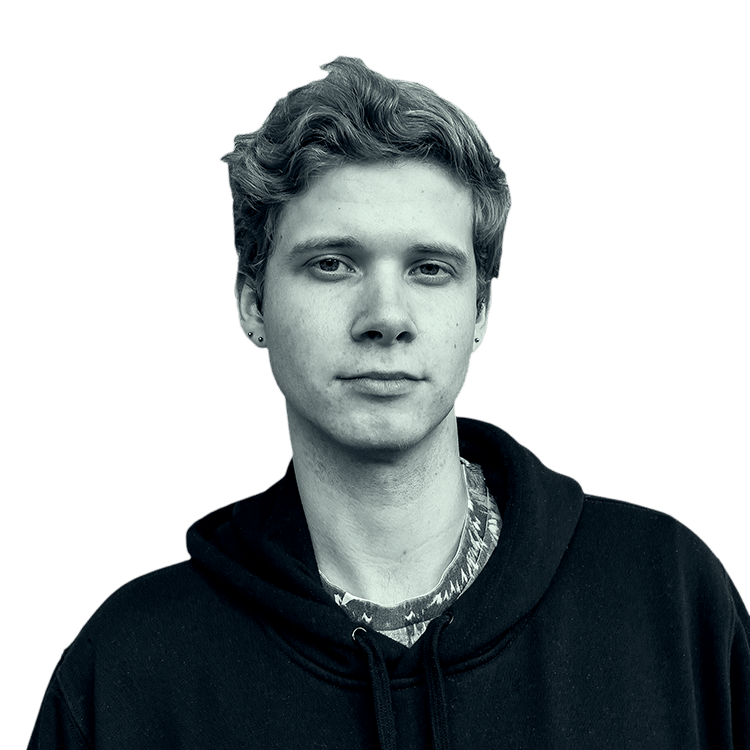
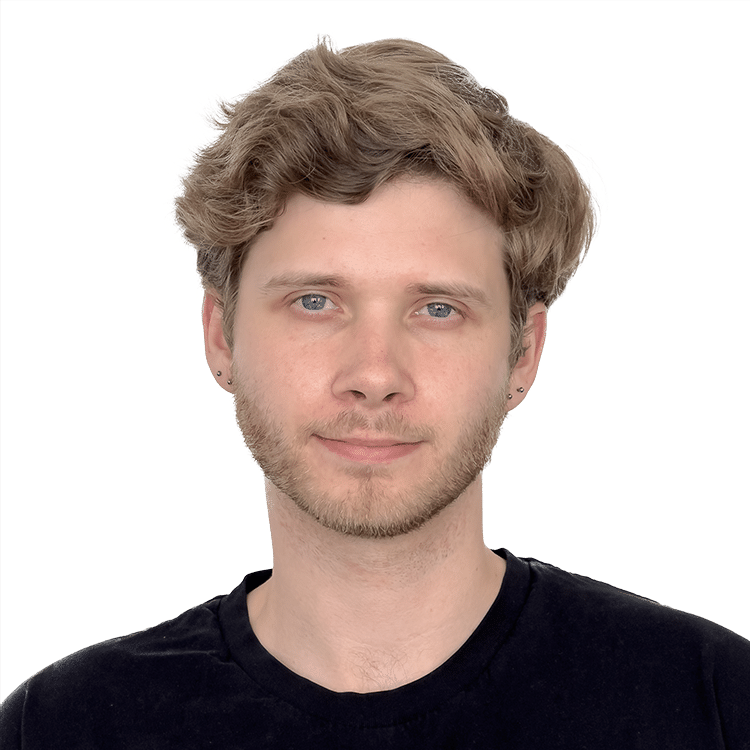
Use new profile photo

diff --git a/src/pages/HomePage.vue b/src/pages/HomePage.vue
@@ -3,7 +3,7 @@
     <section class="home-header">
       <h1>Mark Metcalfe</h1>
       <div class="photo-of-me">
-        <img src="/me.png" />
+        <img src="/me.png?v=2" />
       </div>
       <div class="home-header-about">
         <h3>Developer <span>/</span> VJ <span>/</span> Digital Wizard</h3>
@@ -93,16 +93,19 @@ export default defineComponent({
     .photo-of-me {
       display: inline-block;
       transform: translateZ(0);
+      filter: contrast(190%) brightness(90%) grayscale(100%);
 
       @include desktop-only {
-        height: 10.5rem;
-        width: 10.5rem;
+        height: 9rem;
+        width: 9rem;
+        margin: 1rem 0;
         font-size: 5.25rem;
       }
 
       @include mobile-only {
-        height: 7.5rem;
-        width: 7.5rem;
+        height: 6.5rem;
+        width: 6.5rem;
+        margin: 0.5rem 0;
         font-size: 3.75rem;
       }
 

diff --git a/src/pages/BusinessCardPage.vue b/src/pages/BusinessCardPage.vue
@@ -3,7 +3,7 @@
     <PageCard>
       <section class="businesscard">
         <div class="businesscard-column businesscard-photo-container">
-          <img src="/me.png" alt="Photo of Mark Metcalfe" />
+          <img src="/me.png?v=2" alt="Photo of Mark Metcalfe" />
         </div>
         <div class="businesscard-column businesscard-content">
           <div class="businesscard-row">
@@ -48,7 +48,8 @@ export default defineComponent({
 
   img {
     border-radius: 50%;
-    height: 250px;
+    height: 210px;
+    filter: contrast(190%) brightness(90%) grayscale(100%);
   }
 
   &-column {

diff --git a/index.html b/index.html
@@ -38,11 +38,11 @@
     />
     <meta
       property="og:image"
-      content="https://markmetcalfe.com/social-card.jpg"
+      content="https://markmetcalfe.com/social-card.jpg?v=2"
     />
     <meta
       name="twitter:image"
-      content="https://markmetcalfe.com/social-card.jpg"
+      content="https://markmetcalfe.com/social-card.jpg?v=2"
     />
     <meta property="og:type" content="website" />
     <!-- Page Info End -->
